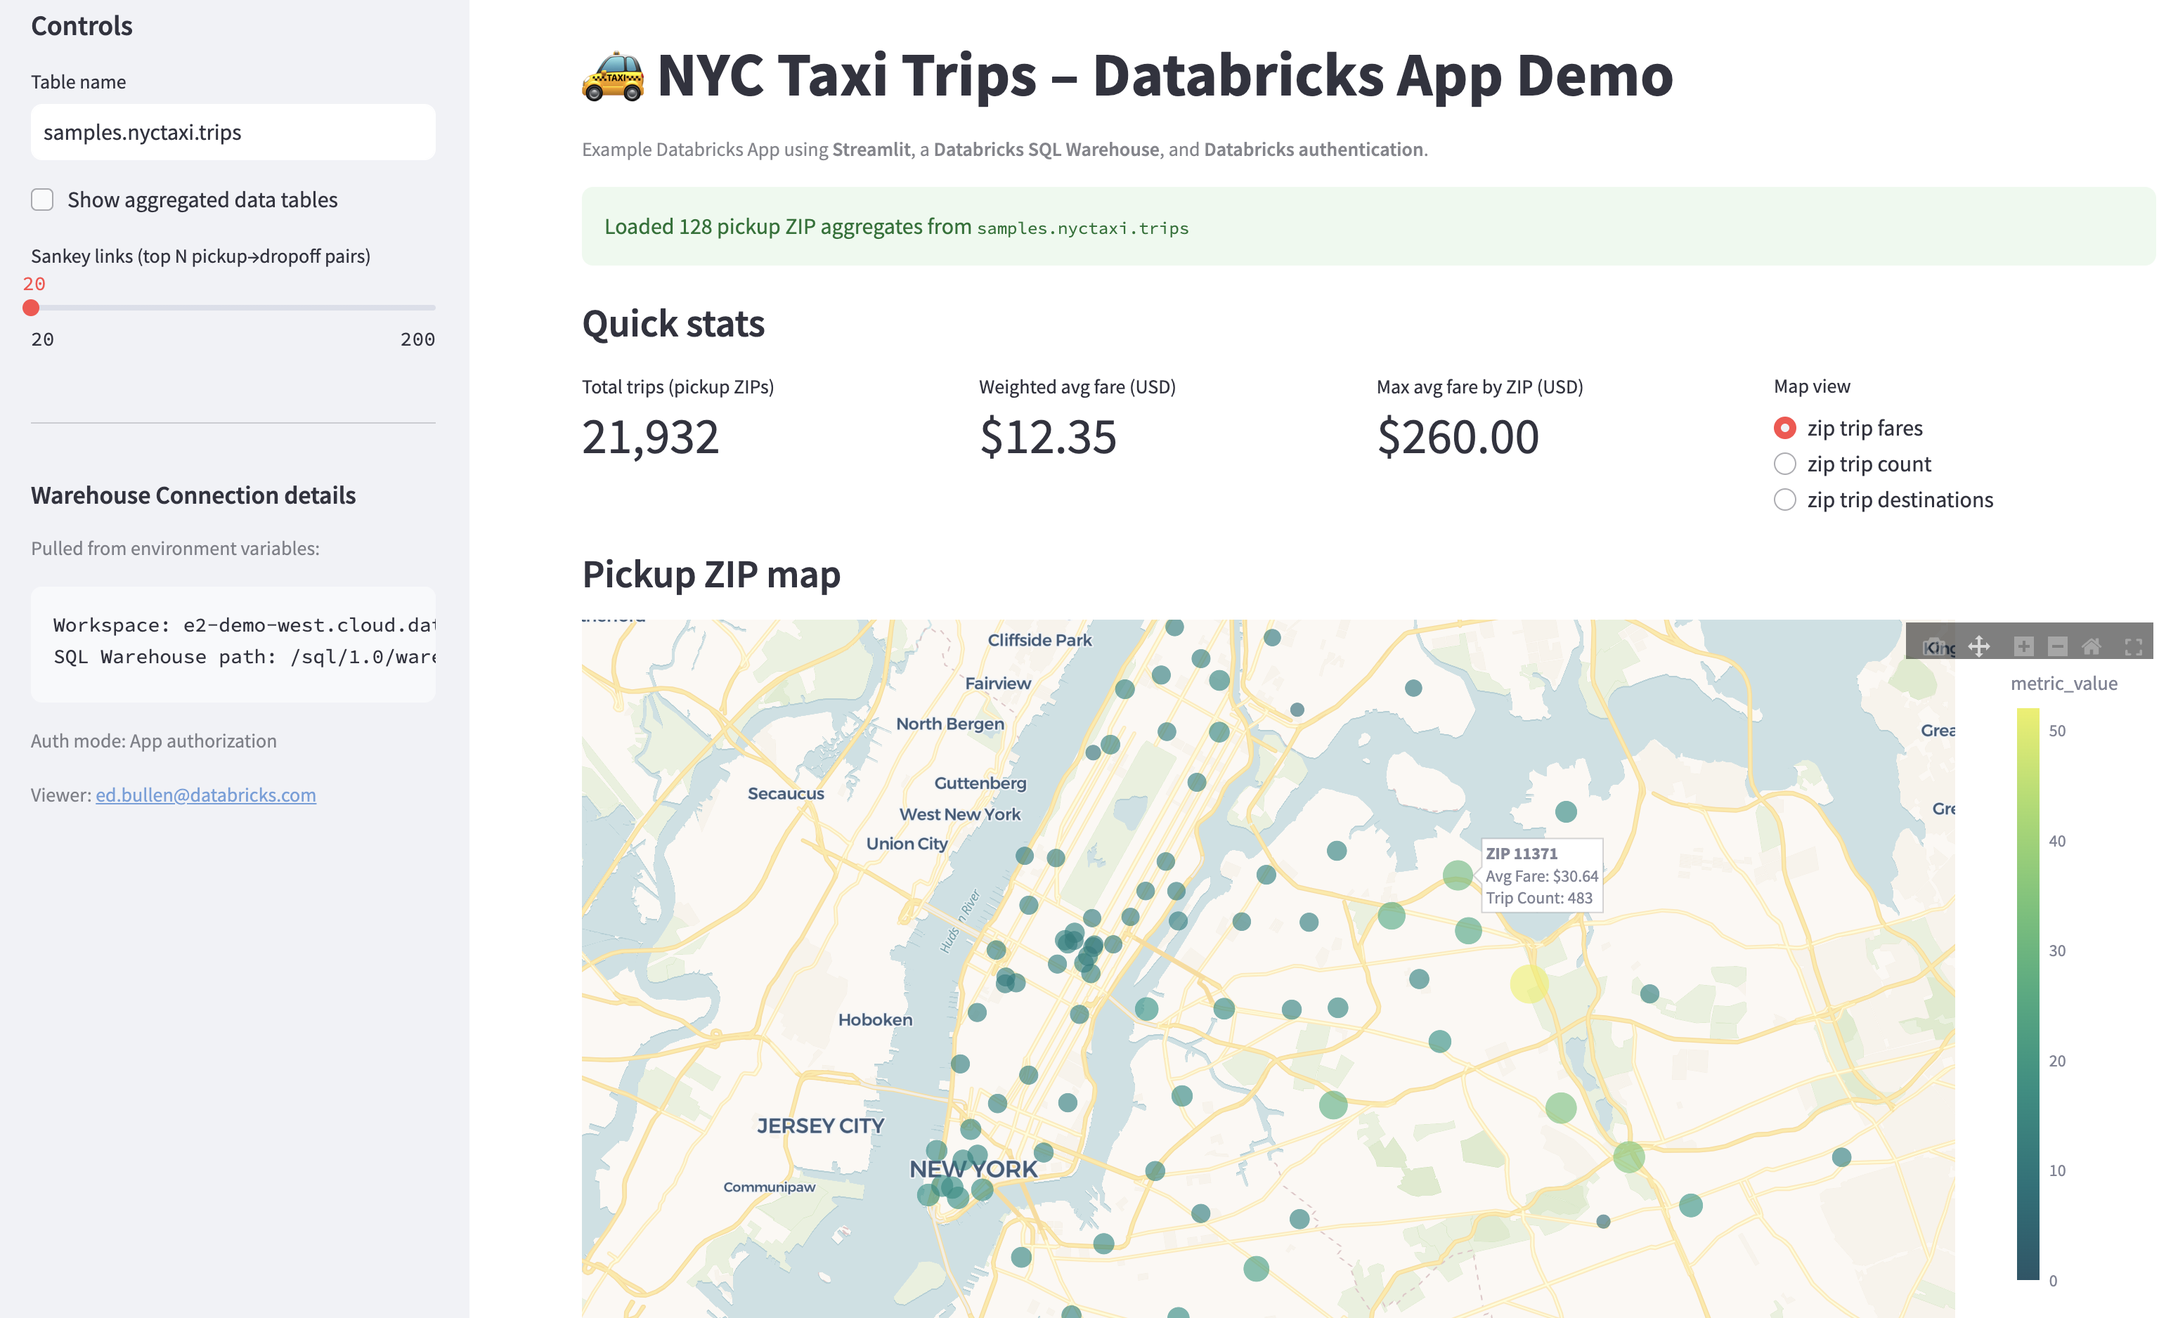
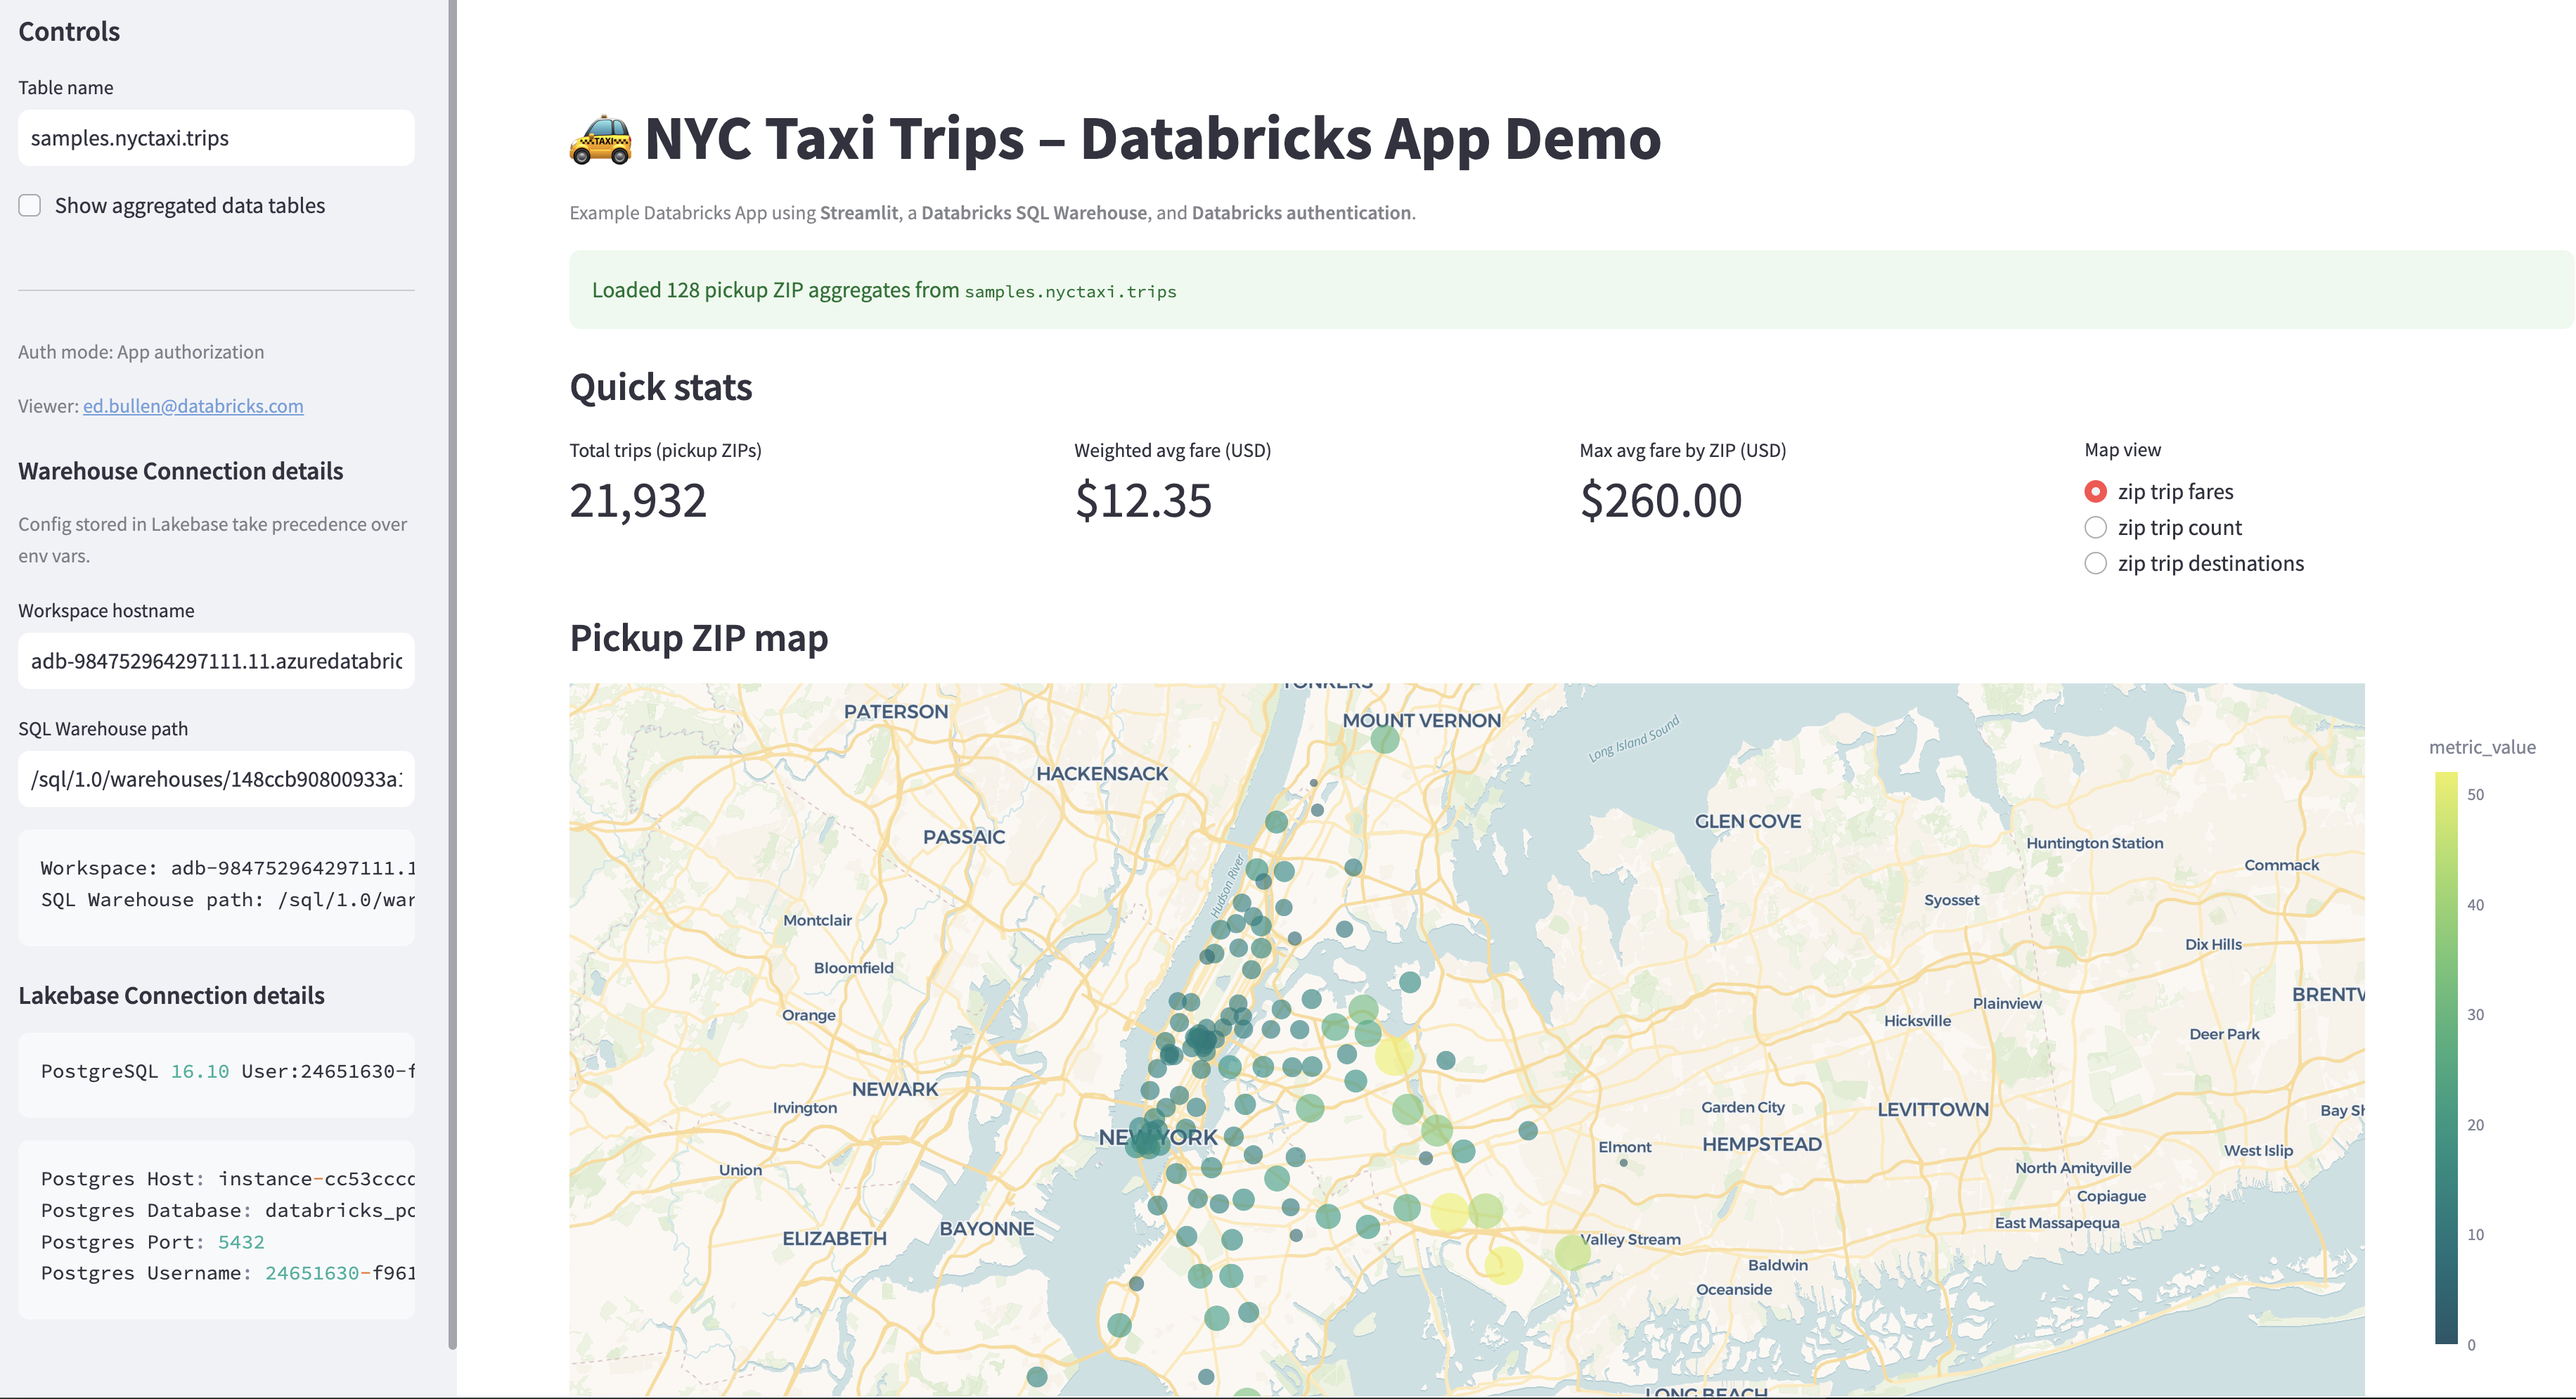
added new screenshots

diff --git a/README.md b/README.md
@@ -1,5 +1,7 @@
 # Simple Databricks App - NYC Taxis
 
+## Screenshot 1 - main page
+
 ![App Screenshot](./doc/apps_screenshot.png "screenshot") 
 
 
@@ -124,4 +126,8 @@ Changes being developed on a laptop IDE can be syncronised by commiting to a loc
 ![Web GUI Deploy](./doc/apps_git_deploy_screenshot.png "deploying via the web gui") 
 
 
+## Screenshot 2 - sankey diagram
 
+Explore traffic between route-nodes.
+
+![Web GUI Deploy](./doc/sankey_diagram.png "sankey") 
